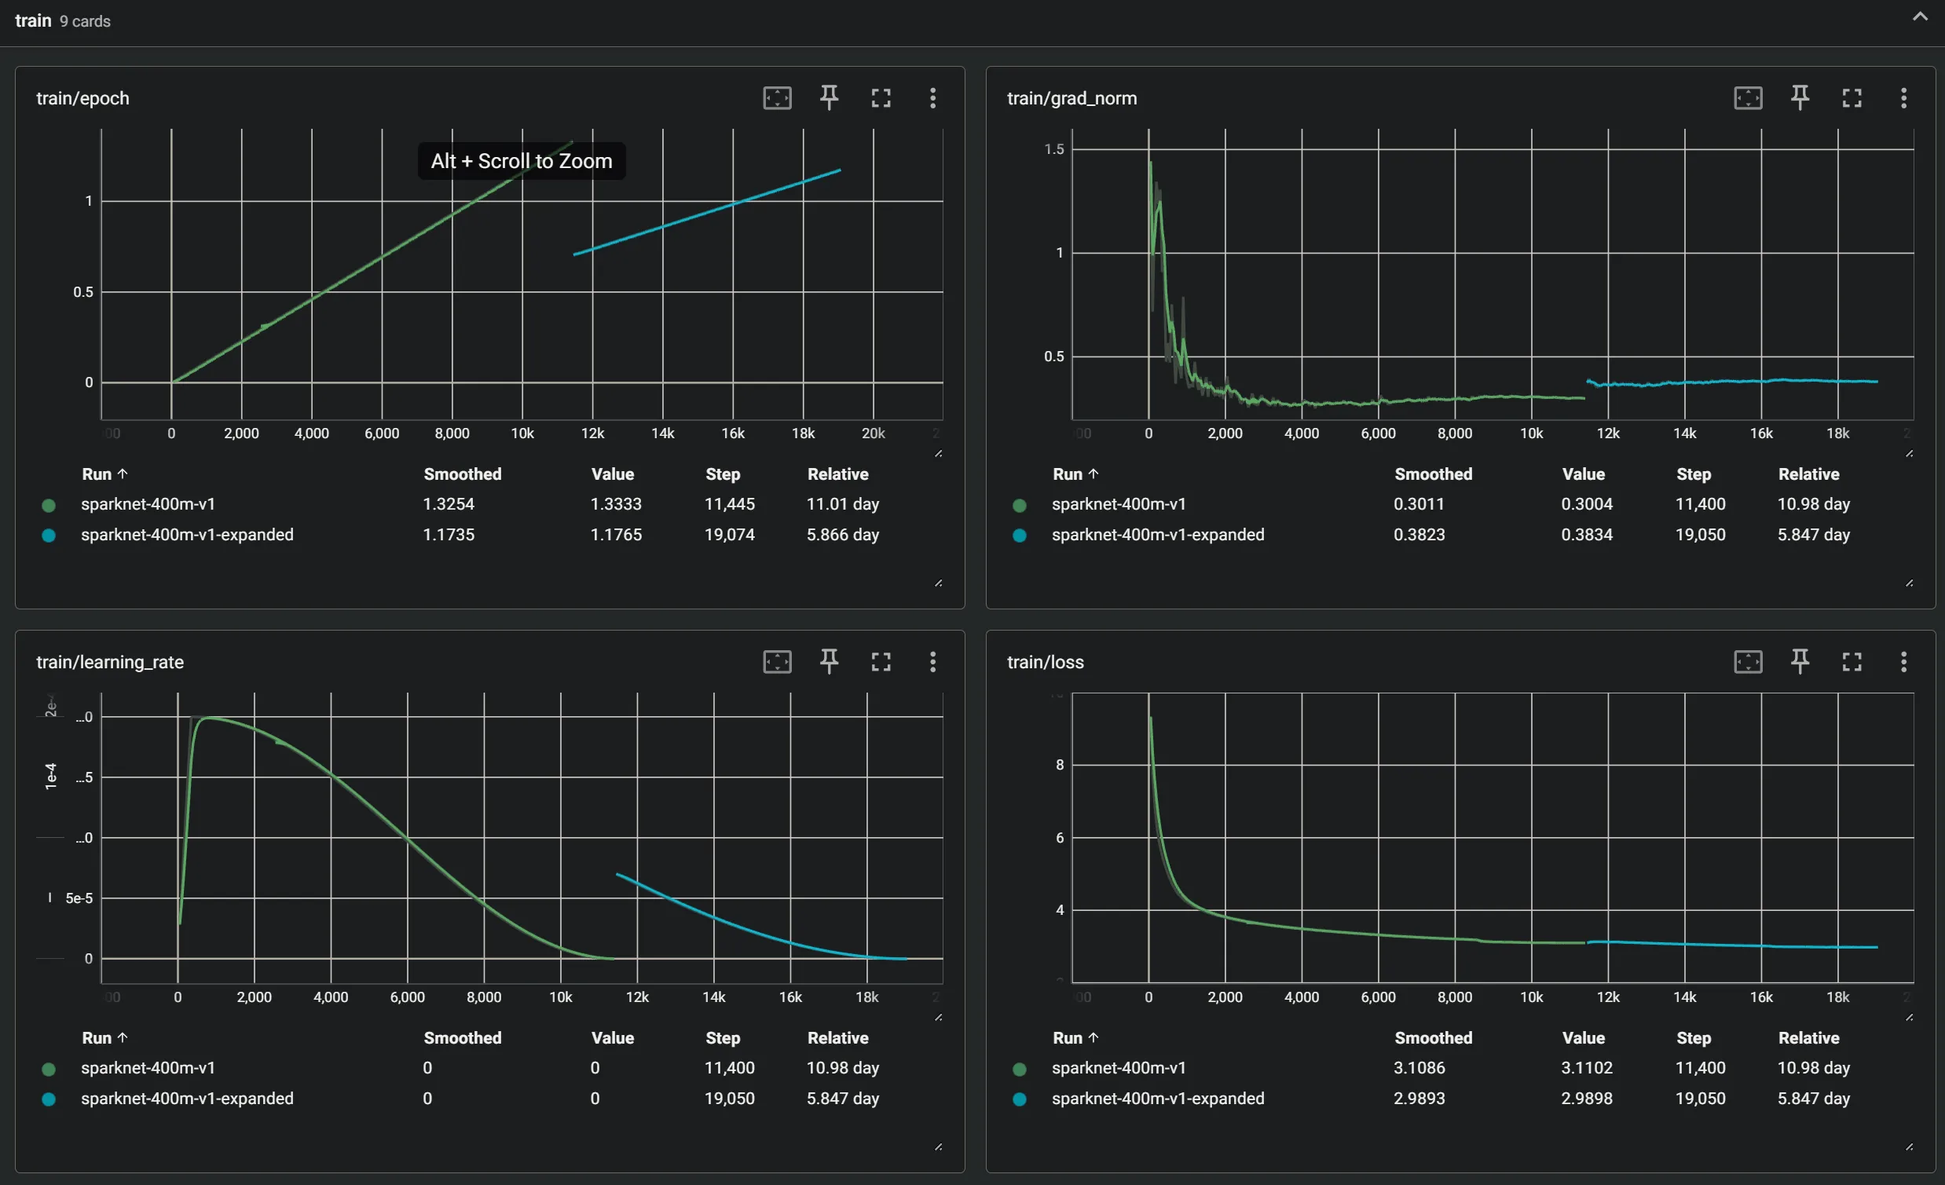
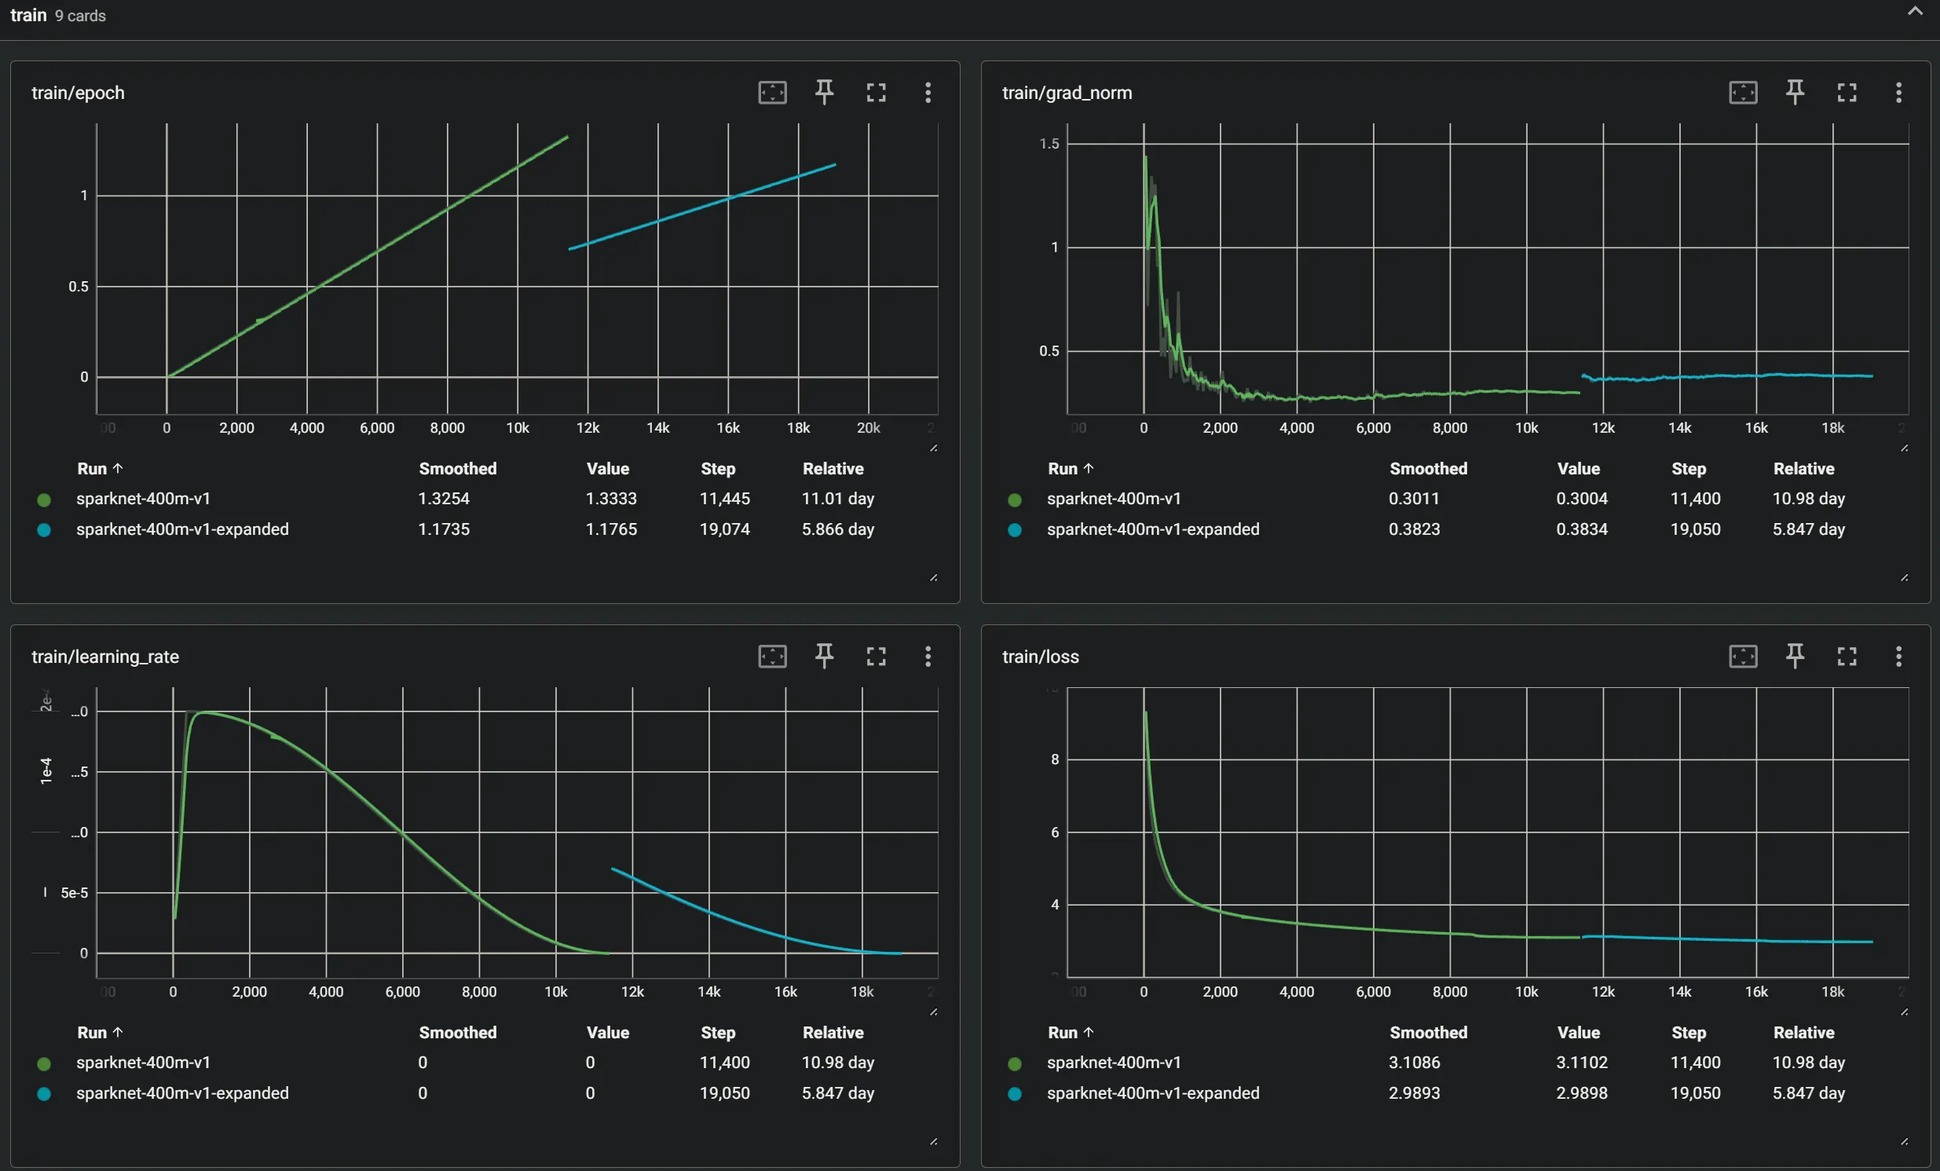
final draft

diff --git a/content/blog/scaling-sparknet.md b/content/blog/scaling-sparknet.md
@@ -1,6 +1,6 @@
 ---
 title: "Scaling SparkNet"
-description: "More Parameters, More Problems"
+description: "SparkNet 70M Trained Overnight. SparkNet 400M Took Weeks - and Broke My Power Strip"
 date: "2026-04-04"
 category: "technology"
 tags:
@@ -11,19 +11,19 @@ tags:
     "home lab",
     "llm",
     "sparknet",
-    "llama",
+    "career",
   ]
 titleImage: "scaling-sparknet.webp"
 featured: true
 ---
 
-## Size Does Matter
+## More Parameters, More Problems
 
-My prior post, [The One Billion Token Challenge](one-billion-token-challenge.md), introduced the SparkNet series of language models. The final iteration, Sparknet 70m v5, scored impressively well! It nearly tied the best result from CodeLion (Asankhaya Sharma), who devised the post's namesake challenge. For my next iteration of SparkNet models, I wanted to follow in the footsteps of the AI industry and trying scaling up to a larger model!
+My prior post, [The One Billion Token Challenge](one-billion-token-challenge.md), introduced the SparkNet series of language models. The final iteration, SparkNet 70m v5, scored impressively well! It nearly tied the best result from CodeLion (Asankhaya Sharma), who devised the post's namesake challenge. For my next iteration of SparkNet models, I wanted to follow in the footsteps of the AI industry and scale up to a larger model!
 
-The desire for scale has led to **SparkNet 400m v1**. There are significant challenges when scaling up model sizes: model training effort does not scale linearly with a model's parameters - it scales *exponentially*. Increasing the number of model parameters simultaneously increases the number of calculations required for each training pass, as well as the number of needed training tokens. More computations x more tokens = more² effort!
+The desire for scale has led to **SparkNet 400m v1**. There are significant challenges when scaling up model sizes: model training effort doesn’t scale linearly - it compounds across both compute and data requirements. More compute x more tokens = much more effort!
 
-The [Chinchila Ratio](https://mbrenndoerfer.com/writing/chinchilla-scaling-laws-compute-optimal-llm-training), coined by its namesake LLM model from Google Deepmind, states that a model's optimal training token count is equal to ~20x its parameter count (optimal here is defined by cost efficiency, not maximal performance). Following this rule, SparkNet 70m model had an optimal training target of around 1.4bil tokens, and left some gains on the table in the name of following the strict training budget rules. 
+The [Chinchilla Ratio](https://mbrenndoerfer.com/writing/chinchilla-scaling-laws-compute-optimal-llm-training), coined by its namesake LLM model from Google Deepmind, states that a model's optimal training token count is equal to ~20x its parameter count (optimal here is defined by cost efficiency, not maximal performance). Following this rule, SparkNet 70m model had an optimal training target of around 1.4bil tokens, and left some gains on the table in the name of following the strict training budget rules. 
 
 <BlogImage
   src="pump-those-numbers-up.webp"
@@ -33,9 +33,9 @@ The [Chinchila Ratio](https://mbrenndoerfer.com/writing/chinchilla-scaling-laws-
 
 That strict training budget also helped enable a fast training cadence - My DGX Spark was able to complete a training run in ~13 hours. I could leave it running overnight, and evaluate the results the next day!
 
-SparkNet 400m, meanwhile, will require at least *8 billion* tokens to reach the Chinchila Ratio. This is a massive jump in project complexity - one I did not fully appreciate when I set out on this scaling journey.
+SparkNet 400m, meanwhile, will require at least *8 billion* tokens to reach the Chinchilla Ratio. This is a massive jump in project complexity - one I did not fully appreciate when I set out on this scaling journey.
 
-I trained Sparknet 400m v1 to two checkpoints: first to 6 billion tokens, and then a second iteration to a full 10 billion tokens. This required weeks of training on my DGX Spark to complete!
+I trained SparkNet 400m v1 to two checkpoints: first to 6 billion tokens, and then a second iteration to a full 10 billion tokens. This represents -2bn/+2bn tokens from the Chinchilla ratio, respectively. This took several weeks of training effort to complete.
 
 ## Designing the Training Environment
 
@@ -53,7 +53,7 @@ SparkNet 400m made use of the following datasets:
 
 With the data sources sourced, I worked on building a new tokenizer for the project. Tokenizer quality is truly *critical* - it is the bridge between the world of language, and the model's inner world of hyper-dimensional learnings. SparkNet 70m v5 made use of a custom [GPT-2-style BPE tokenizer](https://huggingface.co/learn/llm-course/chapter6/5). For SparkNet 400m, I wanted to modernize everything to the latest and greatest in LLM development. That meant switching to a [SentencePiece Unigram](https://github.com/google/sentencepiece) tokenizer. 
 
-SentencePiece Unigram is a fascinating mathematical project to determine the optimal way to break a corpus of text into a tokenizer. This is a far more modern approach than that of the GPT-2 era BPE tokenizer used in SparkNet 70m. However, when I compared the two tokenizers head to head, the original Sparknet 70m v5 tokenizer came within 99% of the efficacy of the new v6 tokenizer. This demonstrated how good BPE tokenization is for smaller datasets! 
+SentencePiece Unigram is a fascinating mathematical project to determine the optimal way to break a corpus of text into a tokenizer. This is a far more modern approach than that of the GPT-2 era BPE tokenizer used in SparkNet 70m. However, when I compared the two tokenizers head to head, the original SparkNet 70m v5 tokenizer came within 99% of the efficacy of the new v6 tokenizer. While the v6 Unigram tokenizer did not prove to have any efficiency gains, it was still a worthwhile exploration of new tokenizer techniques. BPE tokenization is still excellent for smaller datasets!
 
 <BlogImage
   src="same-picture.webp"
@@ -64,17 +64,17 @@ SentencePiece Unigram is a fascinating mathematical project to determine the opt
 
 ## Smoke-testing and Performance Benchmarks
 
-Given the long expected training time for SparkNet 400m, I first ran several 'smoke-test' script runs to ensure initial training stability. These ran successfully, revealing no problems with the training script or the DGX Spark's sustained performance. I then ran a series of benchmark scripts overnight, seeking to find the optimal combination of grad check-pointing, batch size, and gradient accumulation training arguments. This table demonstrates the combination of these arguments, and how the Spark's throughput changed with each combination:
+Given the long expected training time for SparkNet 400m, I first ran several 'smoke-test' script runs to ensure initial training stability. These ran successfully, revealing no problems with the training script or the DGX Spark's sustained performance. I then ran a series of benchmark scripts overnight, seeking to find the optimal combination of grad checkpointing, batch size, and gradient accumulation training arguments. This table demonstrates the combination of these arguments, and how the Spark's throughput changed with each combination:
 
 
-| Configuration | Grad Check-pointing | Batch Size | Grad Accum | Throughput (tok/s) |
+| Configuration | Grad Checkpointing | Batch Size | Grad Accum | Throughput (tok/s) |
 |---------------|--------------------|-----------:|-----------:|-------------------:|
 | Test 1        | On                 | 8          | 64         | ~6,157             |
 | Test 2        | Off                | 8          | 64         | ~7,770             |
 | Test 3        | Off                | 16         | 32         | ~5,916             |
 | Test 4        | Off                | 32         | 16         | ~7,942             |
 
-Gradient check-pointing is often enabled in training runs, as it reduces memory use. The DGX Spark has a ton of memory, but it lacks in memory bandwidth. By disabling gradient accumulation, the Spark can trade more memory utilization for less calculation overhead, eeking out a few hundred extra tokens per second! When racing towards 10 billion tokens, every incremental advantage helps!
+Gradient checkpointing is often enabled in training runs, as it reduces memory use. The DGX Spark has a ton of memory, but it lacks in memory bandwidth. By disabling gradient accumulation, the Spark can trade more memory utilization for less calculation overhead, eeking out a few hundred extra tokens per second! When racing towards 10 billion tokens, every incremental advantage helps!
 
 
 ## Hurry Up and Wait
@@ -85,7 +85,9 @@ Or was there?
 
 As it turns out, the shift from hours long training projects to weeks long training projects introduces new concerns. Stable electricity, for instance! My home office setup already pushes the limits of a 15A circuit, and so it should have been no surprise that power stability would become an issue. While the home circuit breaker held steady, my large 'power tower' style power strip did not. Not just once - but twice! - during the training run would an internal breaker trip on that power tower, causing the DGX Spark (among other equipment) to lose power.
 
-Luckily, the training script features regular check-pointing, preventing catastrophic data loss. In each circumstance, I was able to resume from the latest checkpoint. Even with this safety net, these power loss events represented a real loss of training throughput.
+*Following the old adage of 'fool me twice', the offending power tower has been replaced.*
+
+Luckily, the training script features regular checkpointing, preventing catastrophic data loss. In each circumstance, I was able to resume from the latest checkpoint. Even with this safety net, these power loss events represented a real loss of training throughput.
 
 This highlighted how the perspective of infrastructure shifts as time horizon expands: 100% power uptime for 13 hours is a *very* different question than 100% power uptime for 3 weeks! 
 
@@ -112,7 +114,7 @@ I need not have feared. As it turns out, I quickly found a new and *far more exc
 
 ## Across the Finish Line
 
-Here's the part you've been waiting for! Despite complications in power (and author) reliability, Sparknet 400m v1 did complete its training run. SparkNet 70m was previously evaluated against the wikitext dataset, alongside GPT-2 and CodeLion's best 70m model. Here's how the 400m v1 model stacks up against the same competition:
+Here's the part you've been waiting for! Despite complications in power (and author) reliability, SparkNet 400m v1 did complete its training run. SparkNet 70m was previously evaluated against the wikitext dataset, alongside GPT-2 and CodeLion's best 70m model. Here's how the 400m v1 model stacks up against the same competition:
 
  
 | Model                |    Loss |   Perplexity |
@@ -123,8 +125,10 @@ Here's the part you've been waiting for! Despite complications in power (and aut
 | SparkNet 400M v1 10b |  4.0147 |      55.4069 |
 | GPT-2                |  3.9407 |      51.4545 |
 
+*For a deeper dive into Loss and Perplexity, check out my prior post that analyzes the (training and evaluation of SparkNet 70m)[one-billion-token-challenge#sparknet-v1]*
 
-Compared to the 70m v5 checkpoint, the 400m v1 SparkNet represents a massive improvement in Perplexity! With a score of 55.4069, it has now come within a handful of points to the original GPT-2 quality! Interestingly, the 6b and 10b checkpoints scored *identically* on the wikitext perplexity test, which *raises questions* about how much value those extra tokens provided to the model. More on that later.
+
+Compared to the 70m v5 checkpoint, the 400m v1 SparkNet represents a massive improvement in Perplexity! With a score of 55.4069, it has now come within a handful of points to the original GPT-2 quality! Interestingly, the 6b and 10b checkpoints scored *identically* on the wikitext perplexity test, which is... not right. More on that point in a bit.
 
 The Tensorboard logs for this long run are also interesting. Most of the graphs continued smoothly on the expanded 10b run, but others, such as learning rate, featured a surprising jump.
 
@@ -146,8 +150,6 @@ I also benchmarked the new 400m model, running it through the same test suite th
 <details>
 
 <summary><i>Click to expand and learn more about each of the involved tests.</i></summary>
-#### Benchmark Suites
-
 **HellaSwag**
 HellaSwag is a commonsense reasoning benchmark focused on completing short narrative or instructional descriptions. Each question gives a sentence or scenario and four possible continuations; the model must pick the most realistic one. It’s deceptively difficult because the options are written to look plausible, so high scores require strong world knowledge, context understanding, and linguistic coherence.
 
@@ -167,7 +169,7 @@ ARC Challenge is one of the hardest reasoning benchmarks in the LLM ecosystem. T
 
 <AccNormBenchmarkChart :include-400m="true"></AccNormBenchmarkChart>
 
-Much like the wikitext evaluation above, the Sparknet 400m v1 model trades blows with GPT-2 in all of these tests!
+Much like the wikitext evaluation above, the SparkNet 400m v1 model trades blows with GPT-2 in all of these tests!
 
 <BlogImage
   src="great-success.webp"
@@ -177,7 +179,7 @@ Much like the wikitext evaluation above, the Sparknet 400m v1 model trades blows
 
 ## The Chatbot Future
 
-Training a model like SparkNet is not just for intellectual curiosity - I do have a definite goal in mind! My long-term vision is to build, and host, a working chatbot on DienerTech. It won't be a *good* chatbot, mind you. Modern LMs use trillions of tokens in training, with sophisticated architectures well beyond the GPT-2 style employed here in these SparkNet projects. However, I do hope to train a model that is *pretty okay*. If I can pull it off, I will have built an end-to-end microcosm of the OpenAI business model that has single-handily defined this decade:
+Training a model like SparkNet is not just for intellectual curiosity - I do have a definite goal in mind! My long-term vision is to build, and host, a working chatbot on DienerTech. It won't be a *good* chatbot, mind you. Modern LMs use trillions of tokens in training, with sophisticated architectures well beyond the GPT-2 style employed here in these SparkNet projects. However, I do hope to train a model that is *pretty okay*. If I can pull it off, I will have built an end-to-end microcosm of the OpenAI business model, which has single-handedly defined this decade:
 
 - train a language model
 - teach it to act as a chatbot
@@ -191,21 +193,30 @@ The first phase of training is known as pre-training, and it is the crucial init
 
 Supervised fine-tuning (SFT) is the next step. Using focused pairs of questions and answers, the model can be trained to take on roles and perform more specific tasks. This includes acting as a chatbot, or taking on the demeanor of a helpful assistant. Much like cutting and polishing a diamond, it is this fine-tuning that makes a raw model truly shine!
 
-Despite the good benchmark results from pre-training, my attempts to apply SFT training to Sparknet 400m v1 has floundered. I've attempted five different SFT runs, and *none* of them produced a model that can reasonably chat with the user, nor follow even basic instruction. 
+Despite the good benchmark results from pre-training, my attempts to apply SFT training to SparkNet 400m v1 has floundered. I've attempted five different SFT runs, and *none* of them produced a model that can reasonably chat with the user, nor follow even basic instruction. 
+
+Despite several attempts, the model would continue to suffer from:
+- persistent factual hallucination
+- shallow, templated answers
+- fake specificity
+- easily drift into nonsense or pseudo-code
+- loss improving while usefulness plateaued early
+
+Benchmarking LMs is a tricky business - a model scoring well is no guarantee that it will exhibit useful behavior!
 
 <BlogImage
   src="sorry-dave.webp"
-  alt="Perhaps you'd like to play a nice game of chess?"
+  alt="According to my model, pod bay doors are an optical illusion"
   max-height="400px">
 </BlogImage>
 
-It's entirely possible my SFT scripts are not up to the task. Pre-training requires an immense number of training tokens, but there is a brutal simplicity to the training logic: just keep throwing tokens at the problem! SFT, by contrast, uses far fewer training tokens, but has outsized impact on the final result.
+Pre-training requires an immense number of training tokens, but there is a brutal simplicity to the training logic: just keep throwing tokens at the problem! SFT, by contrast, uses far fewer training tokens, but has outsized impact on the final result. My SFT training methodology might be flawed in some way, and perhaps further research and exploration here will reveal a chatbot.
 
-An alternative explanation is that SparkNet 400m v1 is not as good as the above benchmarks imply. There is a lot of web content in its training corpus, which might be weaker per-token than, say, educational textbook content. The 10b model resuming from the 6b checkpoint may have also hurt the final result; I'm *very* suspicious of how both checkpoints score identically.
+An alternative explanation is that SparkNet 400m v1 is not as good a model as the above benchmarks imply. That both the 6bn and 10bn token checkpoints *scored identically* is improbable if SparkNet was actually *learning* from its training. One possibility is that the model overfit to the training data; rather than learn broadly from first principles, it instead memorized exact sequences of text. Preventing the overfitting to training sequences can be a real difficulty in LLM development, and this strange result might be a first-hand example of this challenge.
 
-The only way to test this theory is to train a second model. So enters **SparkNet 400m v2**.
+The only way to test either theory is to train a second model to serve as a control. So enters **SparkNet 400m v2**.
 
-The training run for v2 is running as I type! The v2 model will train directly to 12b tokens, which will take ~18 days on my DGX Spark. Its training corpus is composed of:
+The training run for v2 is running as I type! The v2 model will train directly to 12b tokens (50% more than Chinchilla), which will take ~18 days on my DGX Spark. Its training corpus is composed of:
 
 
 | Source Name                        |    Composition |
@@ -219,10 +230,12 @@ The training run for v2 is running as I type! The v2 model will train directly t
 
 This corpus places a high emphasis on high-quality, published text samples. It will be interesting to see how the v2 model compares once it finishes pre-training!
 
-## A Fresh Coat of Paint
+## A Fresh Spring Update for DienerTech
 
-This blog post has been a long time coming. Sparknet 400m v1 was an incredibly exciting - and frustrating - project. Scaling up models is no easy task; the impact of going from *hours* to *weeks* for your iteration speed cannot be overstated. The DGX Spark remains an amazing laboratory to experiment with AI technology - just a little patience (and robust infrastructure) is required. I look forward to sharing the results of the SparkNet 400m v2 pre-training and SFT training results!
+This blog post has been a long time coming. SparkNet 400m v1 was an incredibly exciting - and frustrating - project. Scaling up models is no easy task; the impact of going from *hours* to *weeks* for your iteration speed cannot be overstated. The DGX Spark remains an amazing laboratory to experiment with AI technology - just a little patience (and robust infrastructure) is required. I look forward to sharing the results of the SparkNet 400m v2 pre-training and SFT training results!
 
 In addition to this blog post, I've also made some updates throughout this site. This includes, most crucially, the ability to 'like' blog posts! So if you've enjoyed this post - or any of my other works - please click that little heart! I really appreciate it! ❤
+
+Scaling up SparkNet didn’t just make the model bigger, it also magnified every flaw in my training process. The joy of software engineering is that we can try, try again. I've got the patience! As well as a new power strip.
 
 - Michael Diener
